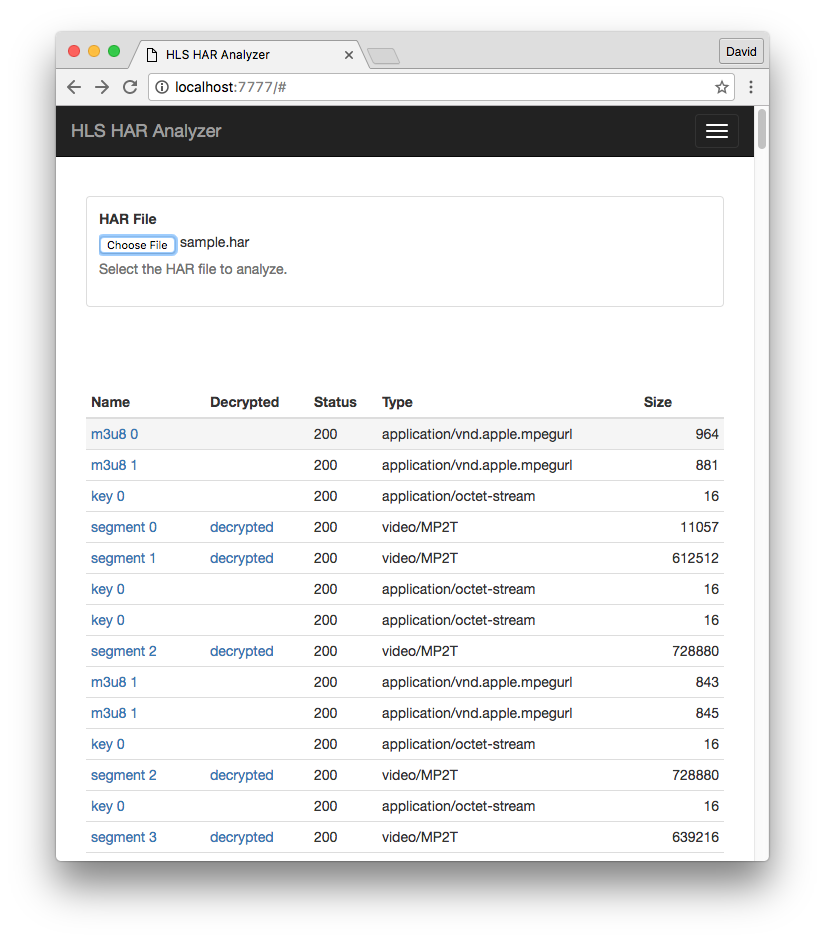
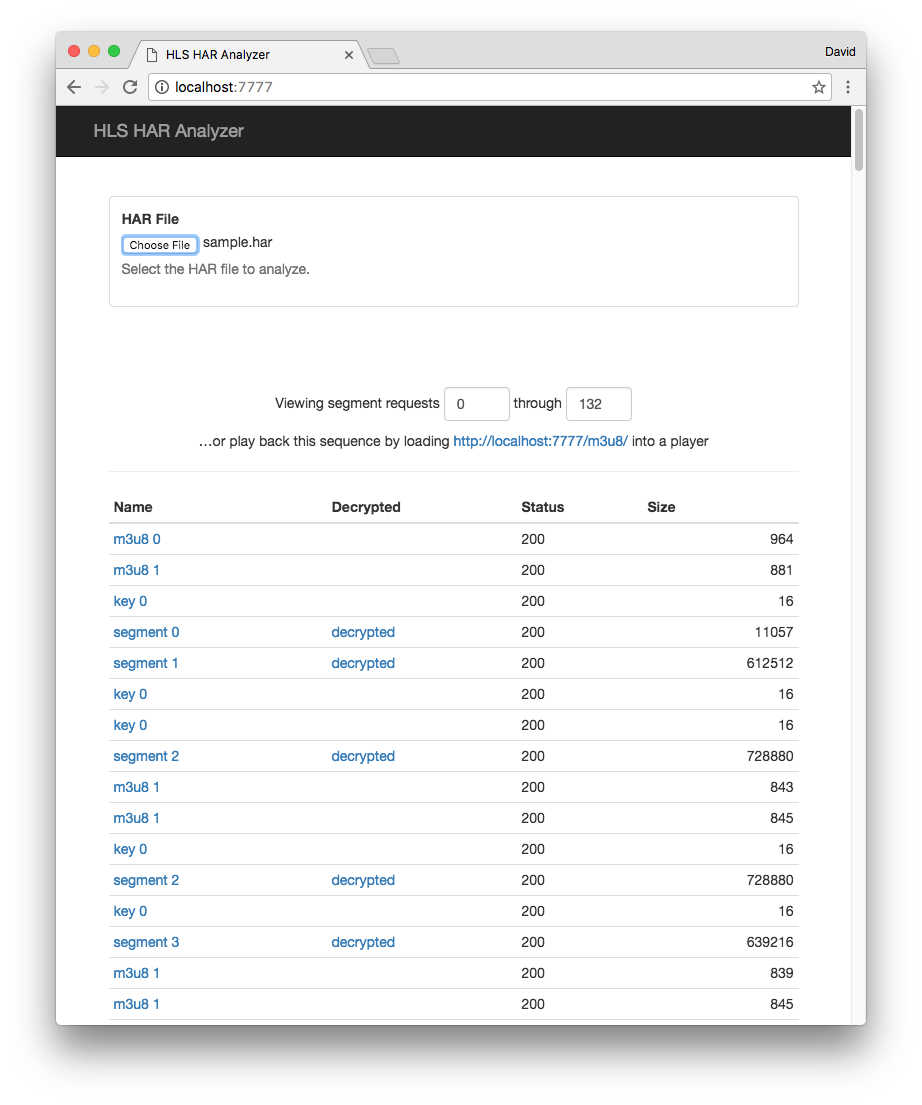
Update README Document replay playlist feature.

diff --git a/README.md b/README.md
@@ -46,7 +46,13 @@ a table like this:
 
 ![screenshot](docs/screenshot.png)
 
-From here, you can click on a file name to download it (or open it in
-a browser window) directly. If it's a TS segment that appears to be
+From here, you can:
+
+- Examine responses: click on a file name to download it (or open it
+in a browser window) directly. If it's a TS segment that appears to be
 encrypted, you can click the "decrypted" link to download a clear
 version of the segment.
+- Replay the session: copy the m3u8 link at the top of the results
+area into a player to see a replay of the sequence of segments from
+the capture. You can use the text fields at the top of the results to
+filter the segments that appear in the replay m3u8.
